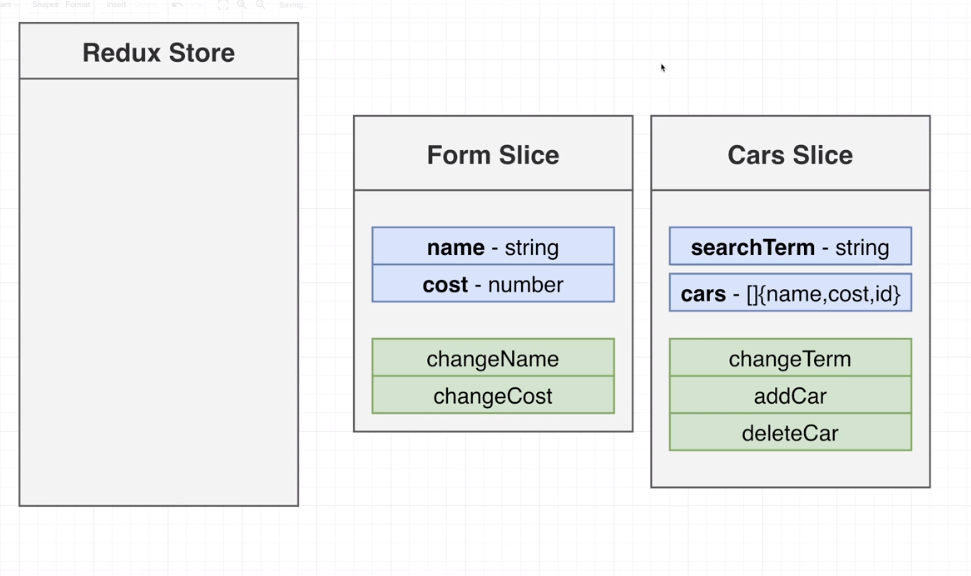
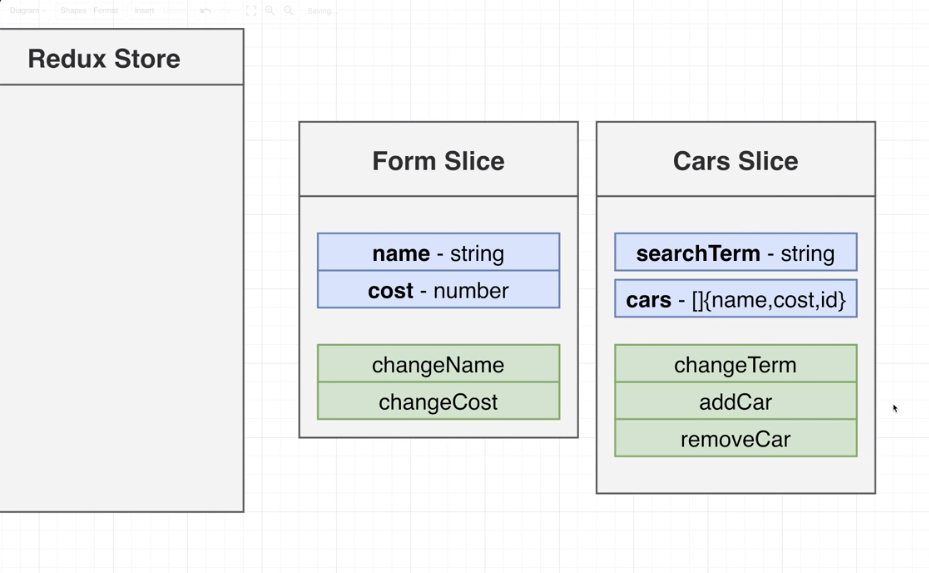
Finished video 328

Changed region(s): [[0.0, 0.0297, 0.9677, 0.9197]]

diff --git a/src/components/CarForm.js b/src/components/CarForm.js
@@ -1,5 +1,59 @@
+import { useDispatch, useSelector } from "react-redux";
+import { changeName, changeCost, addCar } from "../store";
 function CarForm() {
-    return <div>CarForm</div>;
+
+    const dispatch = useDispatch();
+    const {name, cost} = useSelector((state) => {
+        return {
+            name: state.form.name,
+            cost: state.form.cost
+        }
+    });
+    
+    const handleNameChange = (event) => {
+        dispatch(changeName(event.target.value));
+    };
+
+    const handleCostChange = (event) => {
+        const carCost = parseInt(event.target.value) || 0;
+        dispatch(changeCost(carCost));
+
+    };
+    const handleSubmit = (event) => {
+        event.preventDefault();
+        dispatch(addCar({name, cost}));
+
+    }
+
+    return (<div className="car-form panel">
+        <h4 className="subtitle is-3">Add Car</h4>
+        <form onSubmit={handleSubmit}>
+            <div className="field-group">
+                <div className="field">
+                   <label className="label">Name</label>
+                   <input 
+                        className="input is-expanded" 
+                        value = {name}
+                        onChange={handleNameChange}
+                    />
+                </div>
+
+                <div className="field">
+                   <label className="label">Cost</label>
+                   <input 
+                        className="input is-expanded" 
+                        value = {cost || ''}
+                        onChange={handleCostChange}
+                        type="number"
+                    />
+                </div>
+            </div>
+            <div className="field">
+                <button className="button is-link">Submit</button>
+            </div>
+        </form>
+
+    </div>);
 }
 
 export default CarForm;

diff --git a/src/store/slices/carsSlice.js b/src/store/slices/carsSlice.js
@@ -1,0 +1,34 @@
+import { createSlice, nanoid } from "@reduxjs/toolkit";
+
+const carsSlice = createSlice({
+    name: 'cars',
+    initialState: {
+        searchTerm: '',
+        cars: []
+    },
+    reducers: {
+        changeSearchTerm(state, action) {
+            state.searchTerm = action.payload;
+        },
+        addCar(state, action){
+            // Assumption:
+            //action.payload === {name: 'ab', cost: 140}
+            state.cars.push({
+                name: action.payload.name,
+                cost: action.payload.cost,
+                id: nanoid(),
+            });
+        },
+        removeCar(state, action){
+            // Assumptions:
+            // action.payload === the id of the car we want to remove
+            const updated = state.cars.filter((car) => {
+                return car.id !== action.payload;
+            });
+            state.cars = updated;
+        },
+    },
+});
+
+export const { changeSearchTerm, addCar, removeCar } = carsSlice.actions;
+export const carsReducer = carsSlice.reducer;

diff --git a/src/store/index.js b/src/store/index.js
@@ -1,0 +1,12 @@
+import { configureStore } from "@reduxjs/toolkit";
+import { carsReducer, addCar, removeCar, changeSearchTerm } from "./slices/carsSlice";
+import { formReducer, changeName, changeCost } from "./slices/formSlice";
+
+const store = configureStore({
+    reducer: {
+        cars: carsReducer,
+        form: formReducer
+    }
+});
+
+export {store, changeName, changeCost, addCar, removeCar, changeSearchTerm };

diff --git a/src/index.js b/src/index.js
@@ -1,8 +1,14 @@
 import React from 'react';
 import { createRoot } from 'react-dom/client';
+import { Provider } from 'react-redux';
+import { store } from './store';
 import App from './App';
 
 const el = document.getElementById('root');
 const root = createRoot(el);
 
-root.render(<App />);
+root.render(
+    <Provider store={store}>
+        <App />
+    </Provider>
+);
